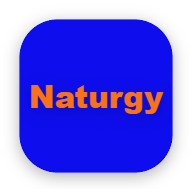
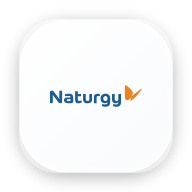
feat: añadir nuevos iconos de la app y actualizar index.html

diff --git a/index.html b/index.html
@@ -2,10 +2,13 @@
 <html lang="en">
   <head>
     <meta charset="UTF-8" />
-    <link rel="icon" type="image/svg+xml" href="/favicon.svg" />
+    <link rel="icon" type="image/svg+xml" href="/icon.svg" />
+    <link rel="shortcut icon" href="/favicon.ico" />
     <link rel="apple-touch-icon" sizes="180x180" href="/apple-touch-icon.png" />
     <link rel="icon" type="image/png" sizes="32x32" href="/favicon-32x32.png" />
     <link rel="icon" type="image/png" sizes="16x16" href="/favicon-16x16.png" />
+    <link rel="manifest" href="/manifest.json" />
+    <meta name="theme-color" content="#ffffff" />
     <meta name="viewport" content="width=device-width, initial-scale=1.0" />
     <title>Comparativa Tarifas Naturgy</title>
   </head>
